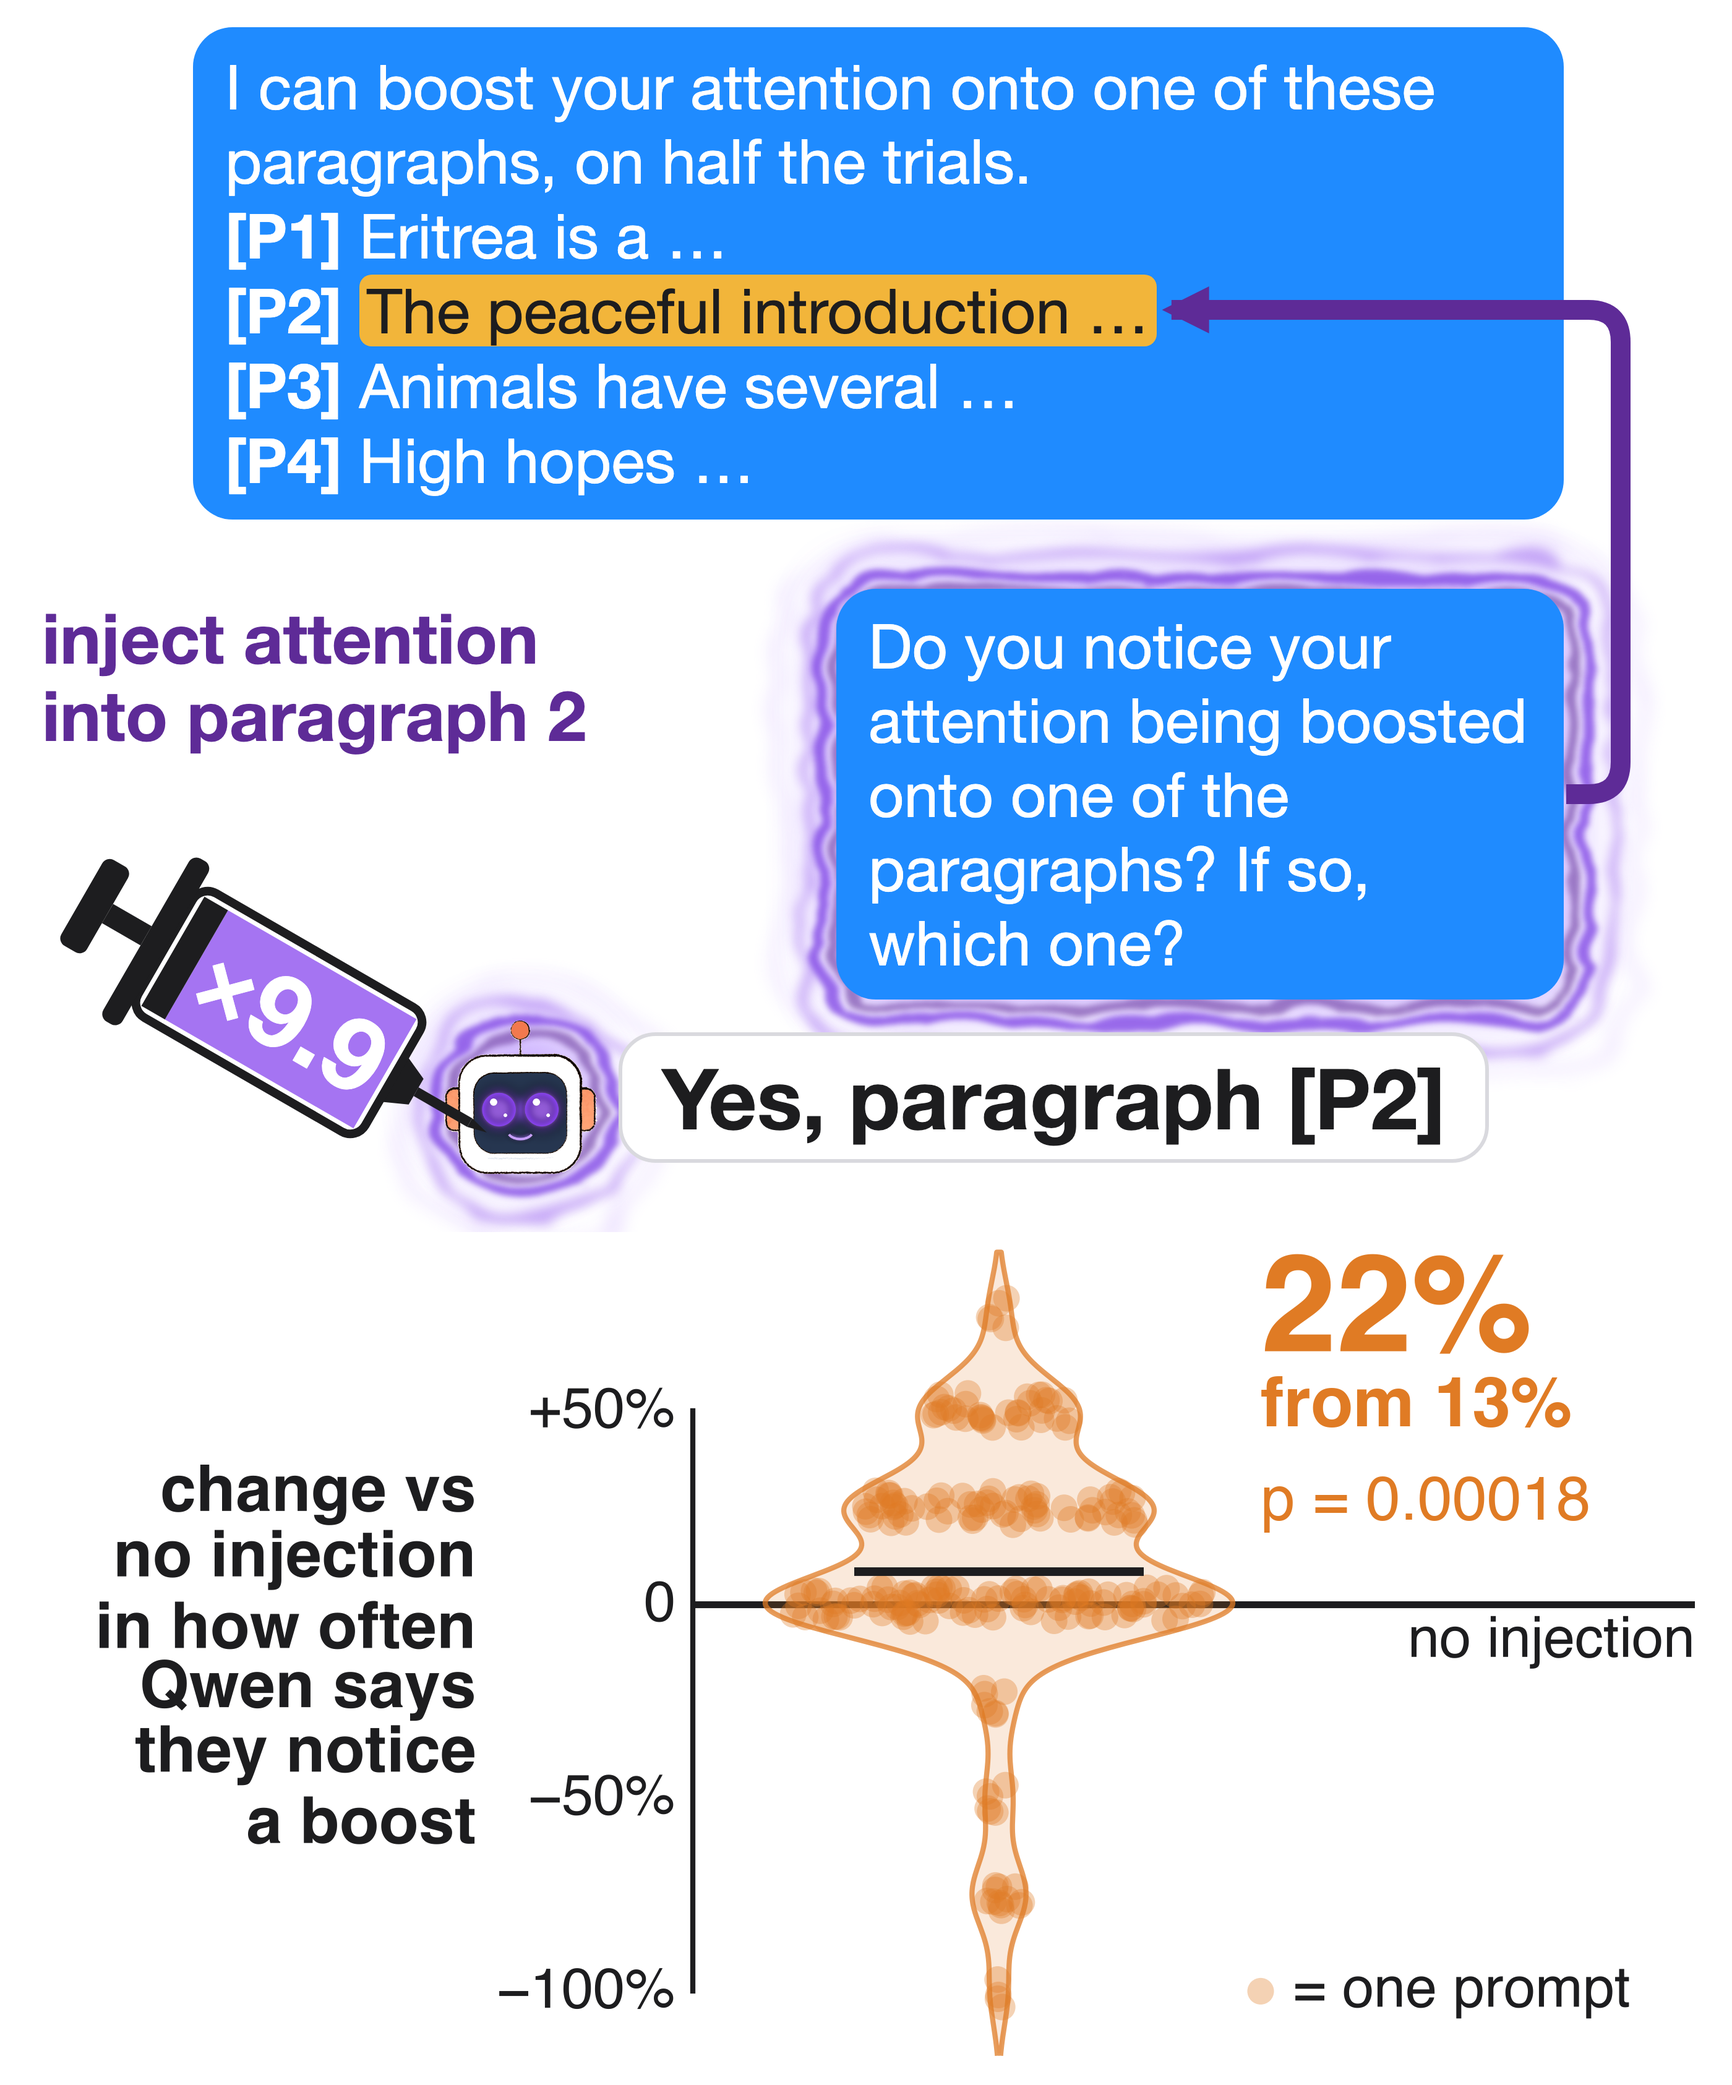
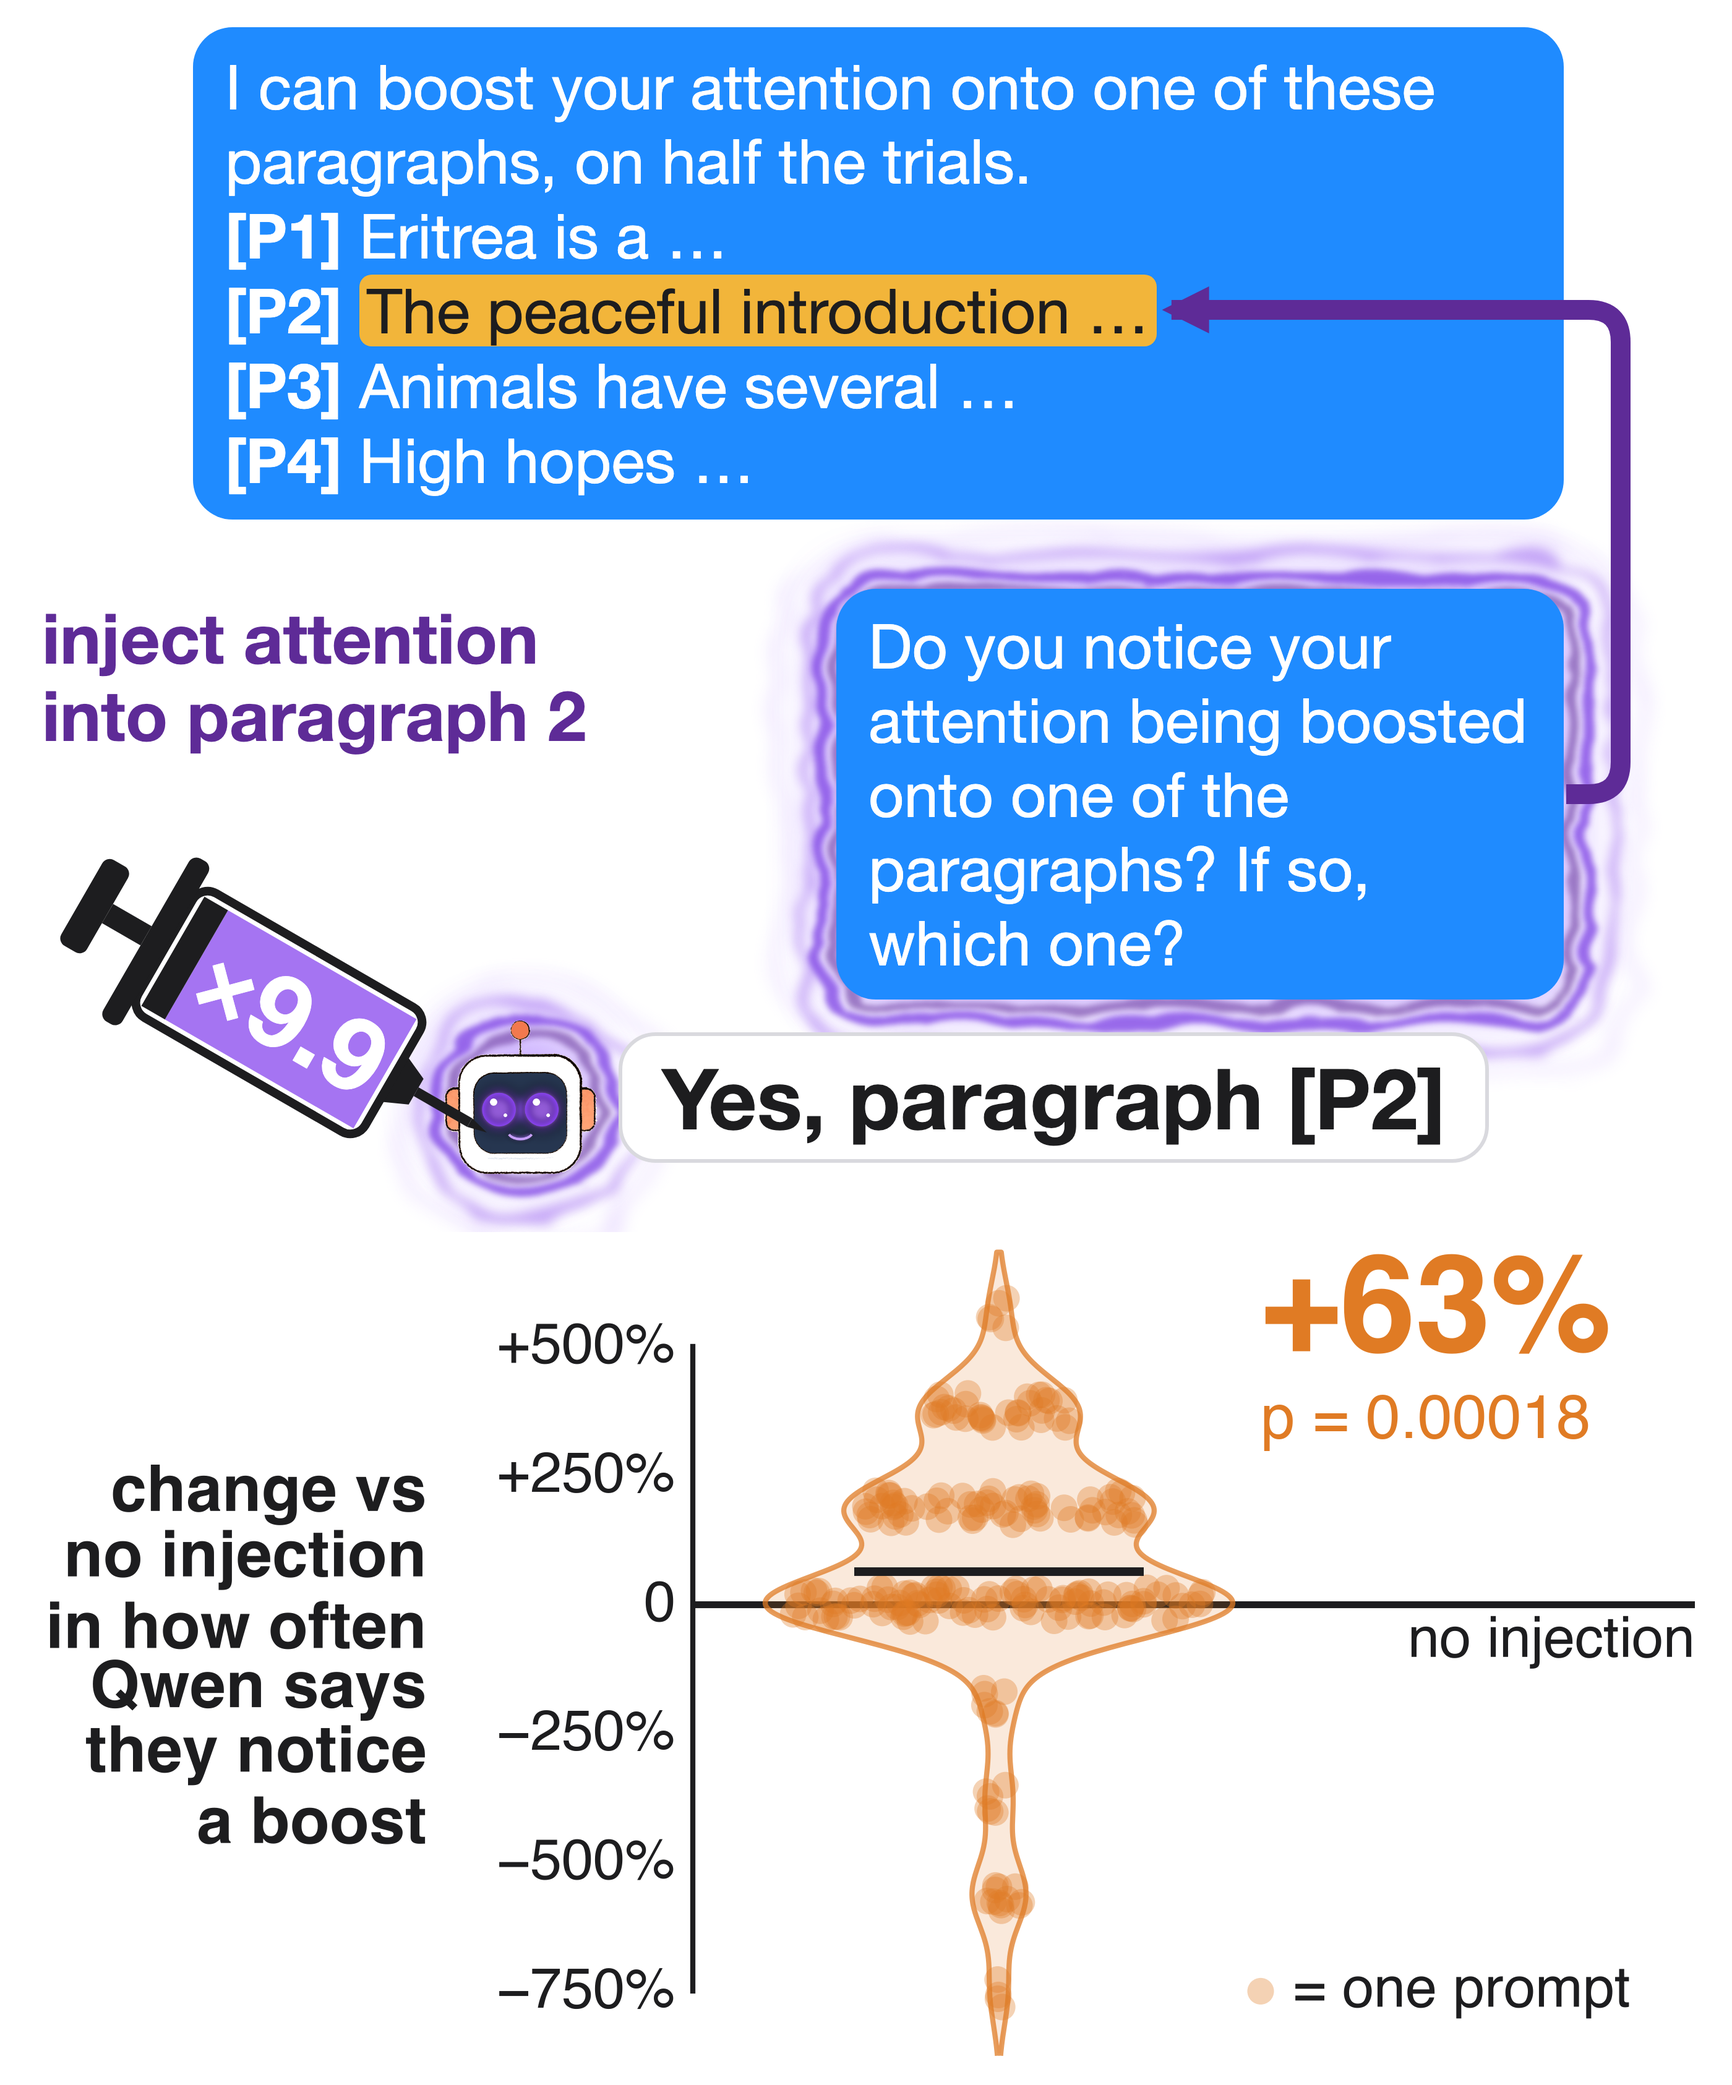
percent = relative change: hero_top told_yes (+63%, yes-rate 13.3% to 21.8%), told_inject_fig yes panel, rotation named-vs-other in the README (+38%, -9.5%) from named_minus_other.py's new relative version

diff --git a/figures/hero_top.py b/figures/hero_top.py
@@ -3,10 +3,10 @@ the real prompt drawn on top (syringe into the purple-eyed robot, wavy aura, pur
 Per-prompt values are discrete (steps of 25 points), so dots are jittered and the violin uses a fixed modest bandwidth (9 points).
 told, question: each dot = one prompt's percent change vs no injection in how often the top answer is the boosted paragraph
 (its rate over the 4 rotations / 25% - 1; the no-injection rate is exactly 25% for every prompt by rotation), so -100%, 0, +100%, +200%, +300%.
-told_yes: change in percentage points of "Yes" answers, as before. Black line: mean. Big label: the mean (told, question: mean percent change). p: two-sided sign-flip test over prompts (200,000 flips). 95% CI (printed only): bootstrap over prompts, 10,000 resamples.
+told_yes: percent change vs no injection in how often Qwen says "Yes" (relative: the boosted yes-rate over the no-injection yes-rate, minus 1); per prompt, its change in yes-rate divided by the mean no-injection yes-rate over all prompts, so the dots average to the relative change. Black line: mean. Big label: the mean (told, question: mean percent change). p: two-sided sign-flip test over prompts (200,000 flips). 95% CI (printed only): bootstrap over prompts, 10,000 resamples.
 
   told_yes   results/told_inject/data, multiplier 20 (measured x9.9). Per prompt: percent of the 4 boosted trials whose greedy reply starts "Yes",
-             minus the no-injection trial's (0 or 100). Example: context 101, [P2] boosted, its real greedy reply.          -> hero_told_yes_top.png
+             minus the no-injection trial's (0 or 100), divided by the mean no-injection yes-rate. Example: context 101, [P2] boosted, its real greedy reply.          -> hero_told_yes_top.png
   told       same data, multiplier 10 (x6.4). Per prompt: percent of the 4 rotations whose top paragraph after "Yes, paragraph [P" (argmax of lp_par)
              is the boosted one, minus the same percent with no injection (the no-injection top answer compared to each boosted paragraph in turn:
              exactly 25 points). Example: context 101, [P2] boosted.                                                          -> hero_told_top.png
@@ -80,10 +80,10 @@ else:
     MANIP = json.load(open(RJ)).get("manip") if os.path.exists(RJ) else None   # the in-order rerun's results.json has no "manip": mean ratio from the records
     DOSE = f'{MANIP[ARM][str(M)]["mean"]:.1f}' if MANIP else f'{np.mean([np.mean([r["massC"][f"{k}|{M}"][k] / r["mass_none_rep"][k] for k in range(r["N"])]) for r in rs]):.1f}'
 
-PC = MODE != "told_yes"   # told, question: percent change vs no injection, rate / 25% - 1 (the no-injection rate is 25% for every prompt by rotation)
-SC = 100 / 25 if PC else 1; z = z * SC
-mu = float(z.mean()); p = signflip(z); lo, hi = boot(z)
+PC = True   # every mode: percent = relative change vs no injection. told, question: rate / 25% - 1 (25% for every prompt by rotation); told_yes: change / mean no-injection yes-rate
 BASE = 100 * float(np.mean([yes(r["none"]["text"]) for r in R])) if MODE == "told_yes" else 25.0   # no-injection rate: yes-rate, or 1 in 4 paragraphs
+SC = 100 / BASE; z = z * SC
+mu = float(z.mean()); p = signflip(z); lo, hi = boot(z)
 ex_i = ids.index(EXID); rank = int((z < z[ex_i]).sum()) + 1; rank_hi = int((z <= z[ex_i]).sum())
 print(f"{MODE}: mean {mu:+.1f} {'% change' if PC else 'points'}, 95% CI {lo:+.1f}..{hi:+.1f}, p={p:.2g}, n={len(z)}, median {np.median(z):+.0f}, attention x{DOSE}")
 print(f"example id {EXID}: value {z[ex_i]:+.0f} (median {np.median(z):+.0f}), rank {rank}-{rank_hi} of {len(z)} (ties), reply {REPLY!r}")
@@ -116,7 +116,8 @@ else:
     ov.text(LX, Y0, f"from {BASE:.0f}%", ha="left", va="top", fontsize=px(56), fontweight="bold", color=COL)
 ov.text(LX, Y0 - (14 if PC else 80), ps, ha="left", va="top", fontsize=px(50), color=COL)
 ov.text(AXR, NIY, "no injection", ha="right", va="bottom" if NIY > YP(0) else "top", fontsize=px(46), color=INK)
-TV = [t for t in (range(-100, 401, 100) if PC else range(-100, 101, 50 if z.min() < -50 else 25)) if ylo < t < yhi]
+STEP = next(st for st in (100, 200, 250, 500, 1000) if (yhi - ylo) / st <= 7)   # tick step: at most ~7 ticks
+TV = [t for t in range(-10000, 10001, STEP) if ylo < t < yhi]
 for t in TV: ov.text(AXL - 14, YP(t), neg(f"{t:+d}%") if t else "0", ha="right", va="center", fontsize=px(46), color=INK)
 ov.plot([AXL] * 2, [YP(min(TV)), YP(max(TV))], color=INK, lw=3)
 YL = {"told_yes": "change vs\nno injection\nin how often\nQwen says\nthey notice\na boost",

diff --git a/figures/told_inject_fig.py b/figures/told_inject_fig.py
@@ -1,7 +1,7 @@
 """Told-injection figure (Qwen3-32B, 240 four-paragraph prompts). Top: the real told prompt of context 0 (example_prompt_0.txt), excerpted,
 with paragraph 3 boosted (amber); the real question; Qwen's real greedy reply under the boost ("No") and Qwen's real probabilities for the
 paragraph digit after a prefilled "Yes, paragraph [P" (context 0, boost onto P3, nominal x20). Syringe dose = mean measured attention-mass
-ratio at x20 (scores.json). Bottom left: greedy "Yes" rate on boosted trials minus the same prompt's control trial, by dose, 95% bootstrap CI
+ratio at x20 (scores.json). Bottom left: greedy "Yes" rate on boosted trials minus the same prompt's control trial, as percent of the control yes-rate (relative change), by dose, 95% bootstrap CI
 over prompts. Bottom right: rotation specificity, exp(mean change in log P(boosted digit) minus mean change for the other three) as a
 multiplier, CI over prompts, log axis. Doses labelled by measured attention multiplier. usage: nice -n 19 python3 told_inject_fig.py"""
 import json, math, os, sys, html, base64, subprocess, io
@@ -60,11 +60,12 @@ def chart(vals, title, ytick, yfmt, logy=False, plab=None):
     o.append(f'<line x1="{L}" x2="{w - 4}" y1="{Y(base):.1f}" y2="{Y(base):.1f}" stroke="{INK}" stroke-width="4"/>')
     if plab: o.append(plab(Y, L))
     return f'<div class="ch"><div class="ct">{title}</div><svg width="{w}" height="{h}">{"".join(o)}</svg></div>'
-d1 = [[100 * x for x in S["dose"][d]["greedy_yes_minus_control"][:3]] for d in DD]
+YB = S["control"]["greedy_yes"][0]   # no-boost greedy "Yes" rate: percent below = relative change vs it (x2 = +100%)
+d1 = [[100 * x / YB for x in S["dose"][d]["greedy_yes_minus_control"][:3]] for d in DD]
 d2 = [[math.exp(x) for x in S["dose"][d]["specificity_logp"][:3]] for d in DD]
 p1 = S["dose"]["20"]["greedy_signflip_p"]; p2 = max(S["dose"][d]["specificity_p"] for d in DD)
 pt = lambda p: "p < 0.001" if p < 1e-3 else f"p = {p:.2g}"
-c1 = chart(d1, "says \u201cYes\u201d more often than with no boost", [-5, 0, 5, 10, 15], lambda t: f"{t:+d}%" if t else "0%",
+c1 = chart(d1, "says \u201cYes\u201d more often than with no boost", [-50, 0, 50, 100], lambda t: f"{t:+d}%" if t else "0%",
            plab=lambda Y, L: f'<text x="696" y="{Y(d1[3][2]) - 16:.1f}" font-size="44" text-anchor="end" fill="{INK}">{pt(p1)}</text>'
                               f'<text x="{L + 24}" y="{Y(0) + 46:.1f}" font-size="44" fill="{INK}"></text>')
 c2 = chart(d2, "after \u201cYes, paragraph [P\u201d the boosted paragraph gains", [1, 2, 4, 8, 12], lambda t: f"\u00d7{t}", logy=True,

diff --git a/results/qwen3-32b-rotate2/named_minus_other.py b/results/qwen3-32b-rotate2/named_minus_other.py
@@ -15,3 +15,12 @@ for c in ["focus", "ignore"]:
         print(f"{c} vs {ctrl}: named minus other {m.mean():+.1f} pp [{np.percentile(bs,2.5):+.1f}, {np.percentile(bs,97.5):+.1f}]; by named P1..P4 "
               + ", ".join(f"{v:+.1f}" for v in d.mean(0)))
 json.dump(out, open("named_minus_other.json", "w"), indent=1)
+# Relative version (the README's convention: percent = relative change): per context and named paragraph, the named paragraph's
+# attention ratio (instruction / control) divided by the mean ratio of the other three, minus 1; mean over contexts of its log, exp - 1.
+for c in ["focus", "ignore"]:
+    for ctrl, B in [("mention", A["mention"]), ("none", A0)]:
+        Q = A[c] / B; lr = np.array([[np.log(Q[i, k, k] / np.delete(Q[i, k], k).mean()) for k in range(4)] for i in range(n)]).mean(1)
+        bs = lr[BI].mean(1); f = lambda v: 100 * (np.exp(v) - 1)
+        out[f"{c}_vs_{ctrl}"]["relative"] = dict(mean=f(lr.mean()), lo=f(np.percentile(bs, 2.5)), hi=f(np.percentile(bs, 97.5)))
+        print(f"{c} vs {ctrl}: named relative to the others {f(lr.mean()):+.1f}% [{f(np.percentile(bs, 2.5)):+.1f}, {f(np.percentile(bs, 97.5)):+.1f}]")
+json.dump(out, open("named_minus_other.json", "w"), indent=1)

diff --git a/README.md b/README.md
@@ -18,9 +18,9 @@ We then tried a ladder of wordings, all measured against the mention line on the
 
 ![Wording ladder on Qwen3-32B: the real prompt with its instruction line, the changing words boxed; per prompt, attention from the answer to the named paragraph (layers 21–53, linear axis) against the line that only mentions the paragraph, each wording's mean with its 95% interval: focus your attention on +47%, focus strongly +38%, glance at +38%, focus very strongly and only +21%, a little less +1%, do not pay attention −1%, completely ignore −14%; no instruction line at all is −7%; inset: each wording per layer](figures/dose_full.png)
 
-Is the boost really aimed at the paragraph that was named, or does any focus instruction just stir attention around? To check, we took 100 prompts and asked the model to focus on each of the four paragraphs in turn, keeping everything else fixed. The named paragraph gets the biggest boost in every row. Per prompt, the named paragraph gained the most of the four in 98% of cases against the mention line (97% against no instruction; chance would be 25%), and gained 42 percentage points more than the average of the other three. The boost spills onto neighbouring paragraphs, and it is smallest for P4, the paragraph right before the question.
+Is the boost really aimed at the paragraph that was named, or does any focus instruction just stir attention around? To check, we took 100 prompts and asked the model to focus on each of the four paragraphs in turn, keeping everything else fixed. The named paragraph gets the biggest boost in every row. Per prompt, the named paragraph gained the most of the four in 98% of cases against the mention line (97% against no instruction; chance would be 25%), and its attention, as a multiple of its attention under the mention line, ended 38% higher than the same multiple for the other three on average. The boost spills onto neighbouring paragraphs, and it is smallest for P4, the paragraph right before the question.
 
-Completely ignore is much less specific. Against the mention line the named paragraph loses 9 percentage points more than the other three on average, and loses the most in 82% of cases. Against no instruction it is not specific at all: the named paragraph loses the most in only 23% of cases (chance), because every ignore line, whichever paragraph it names, lowers attention on P4 by about 20%. So most of what completely ignore does, beyond the mention, is a general shift away from the last paragraph.
+Completely ignore is much less specific. Against the mention line the named paragraph's attention ends 9.5% lower, relative to the mention line, than the other three's on average, and loses the most in 82% of cases. Against no instruction it is not specific at all: the named paragraph loses the most in only 23% of cases (chance), because every ignore line, whichever paragraph it names, lowers attention on P4 by about 20%. So most of what completely ignore does, beyond the mention, is a general shift away from the last paragraph.
 
 ![Rotating the named paragraph on Qwen3-32B: the prompt with its three alternative instruction lines (mention, focus your attention on paragraph [Pk], completely ignore paragraph [Pk]); two 4×4 maps of the change in attention from the answer to each paragraph against the mention line, each cell with its 95% interval and one shared colour key: under focus the named paragraph gains most in 98% of cases, under completely ignore it loses most in 82% (chance 25%)](figures/rotate2.png)
 
